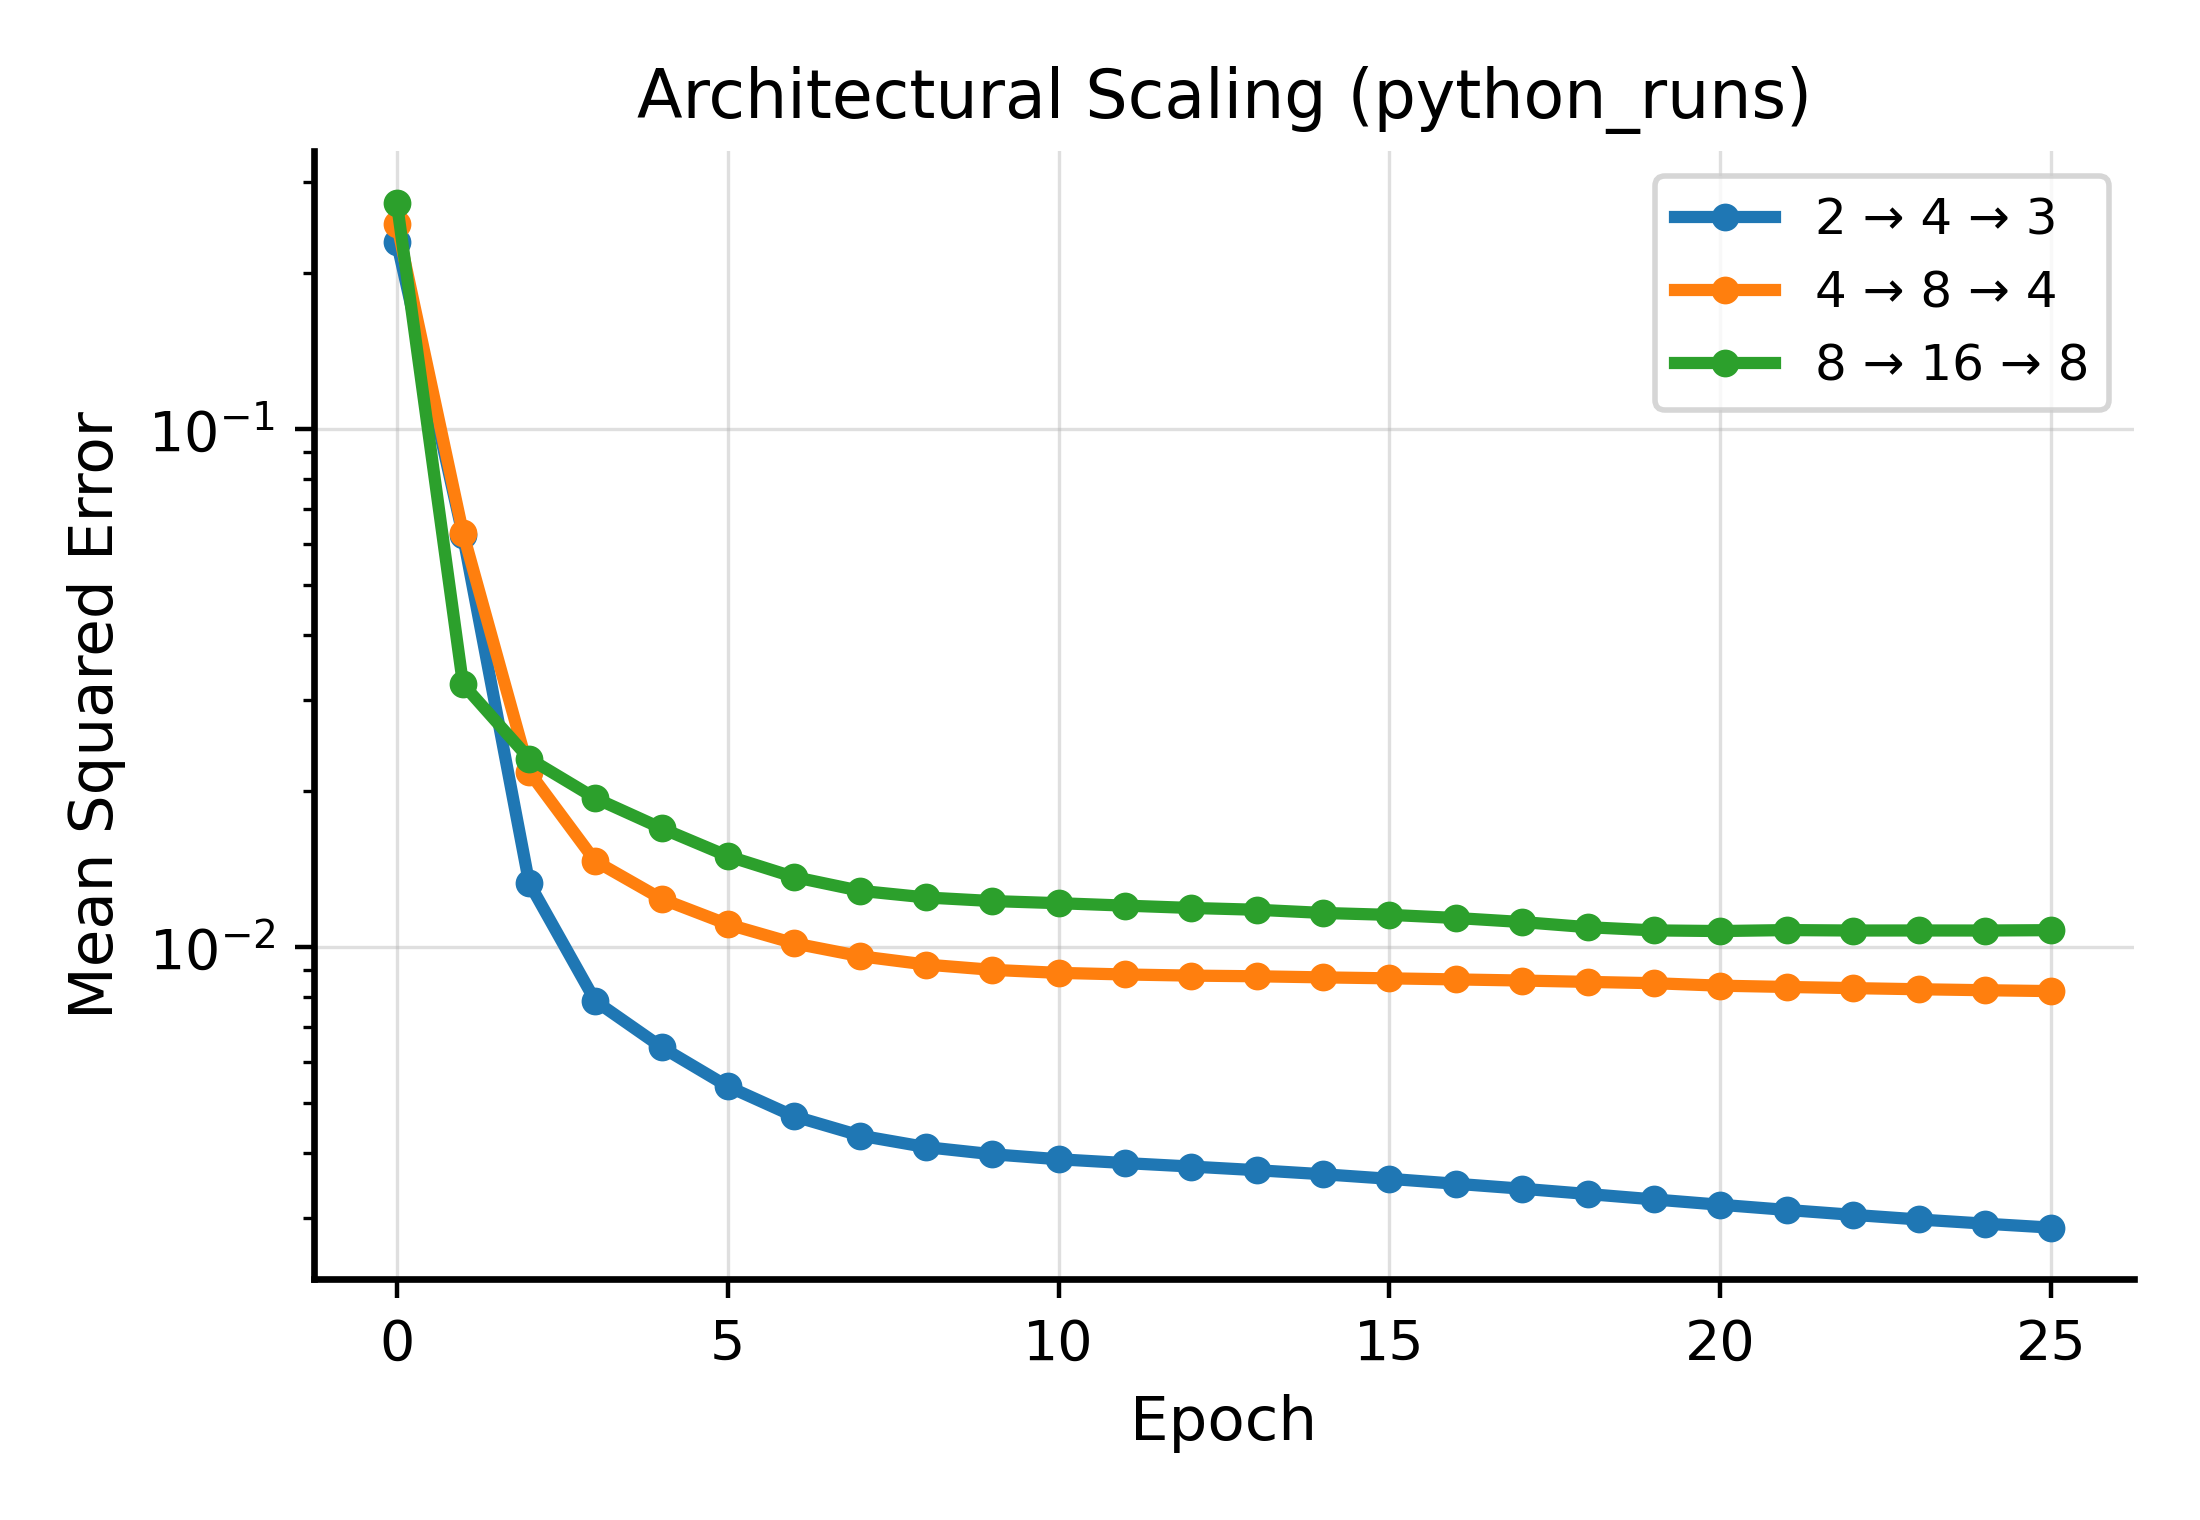
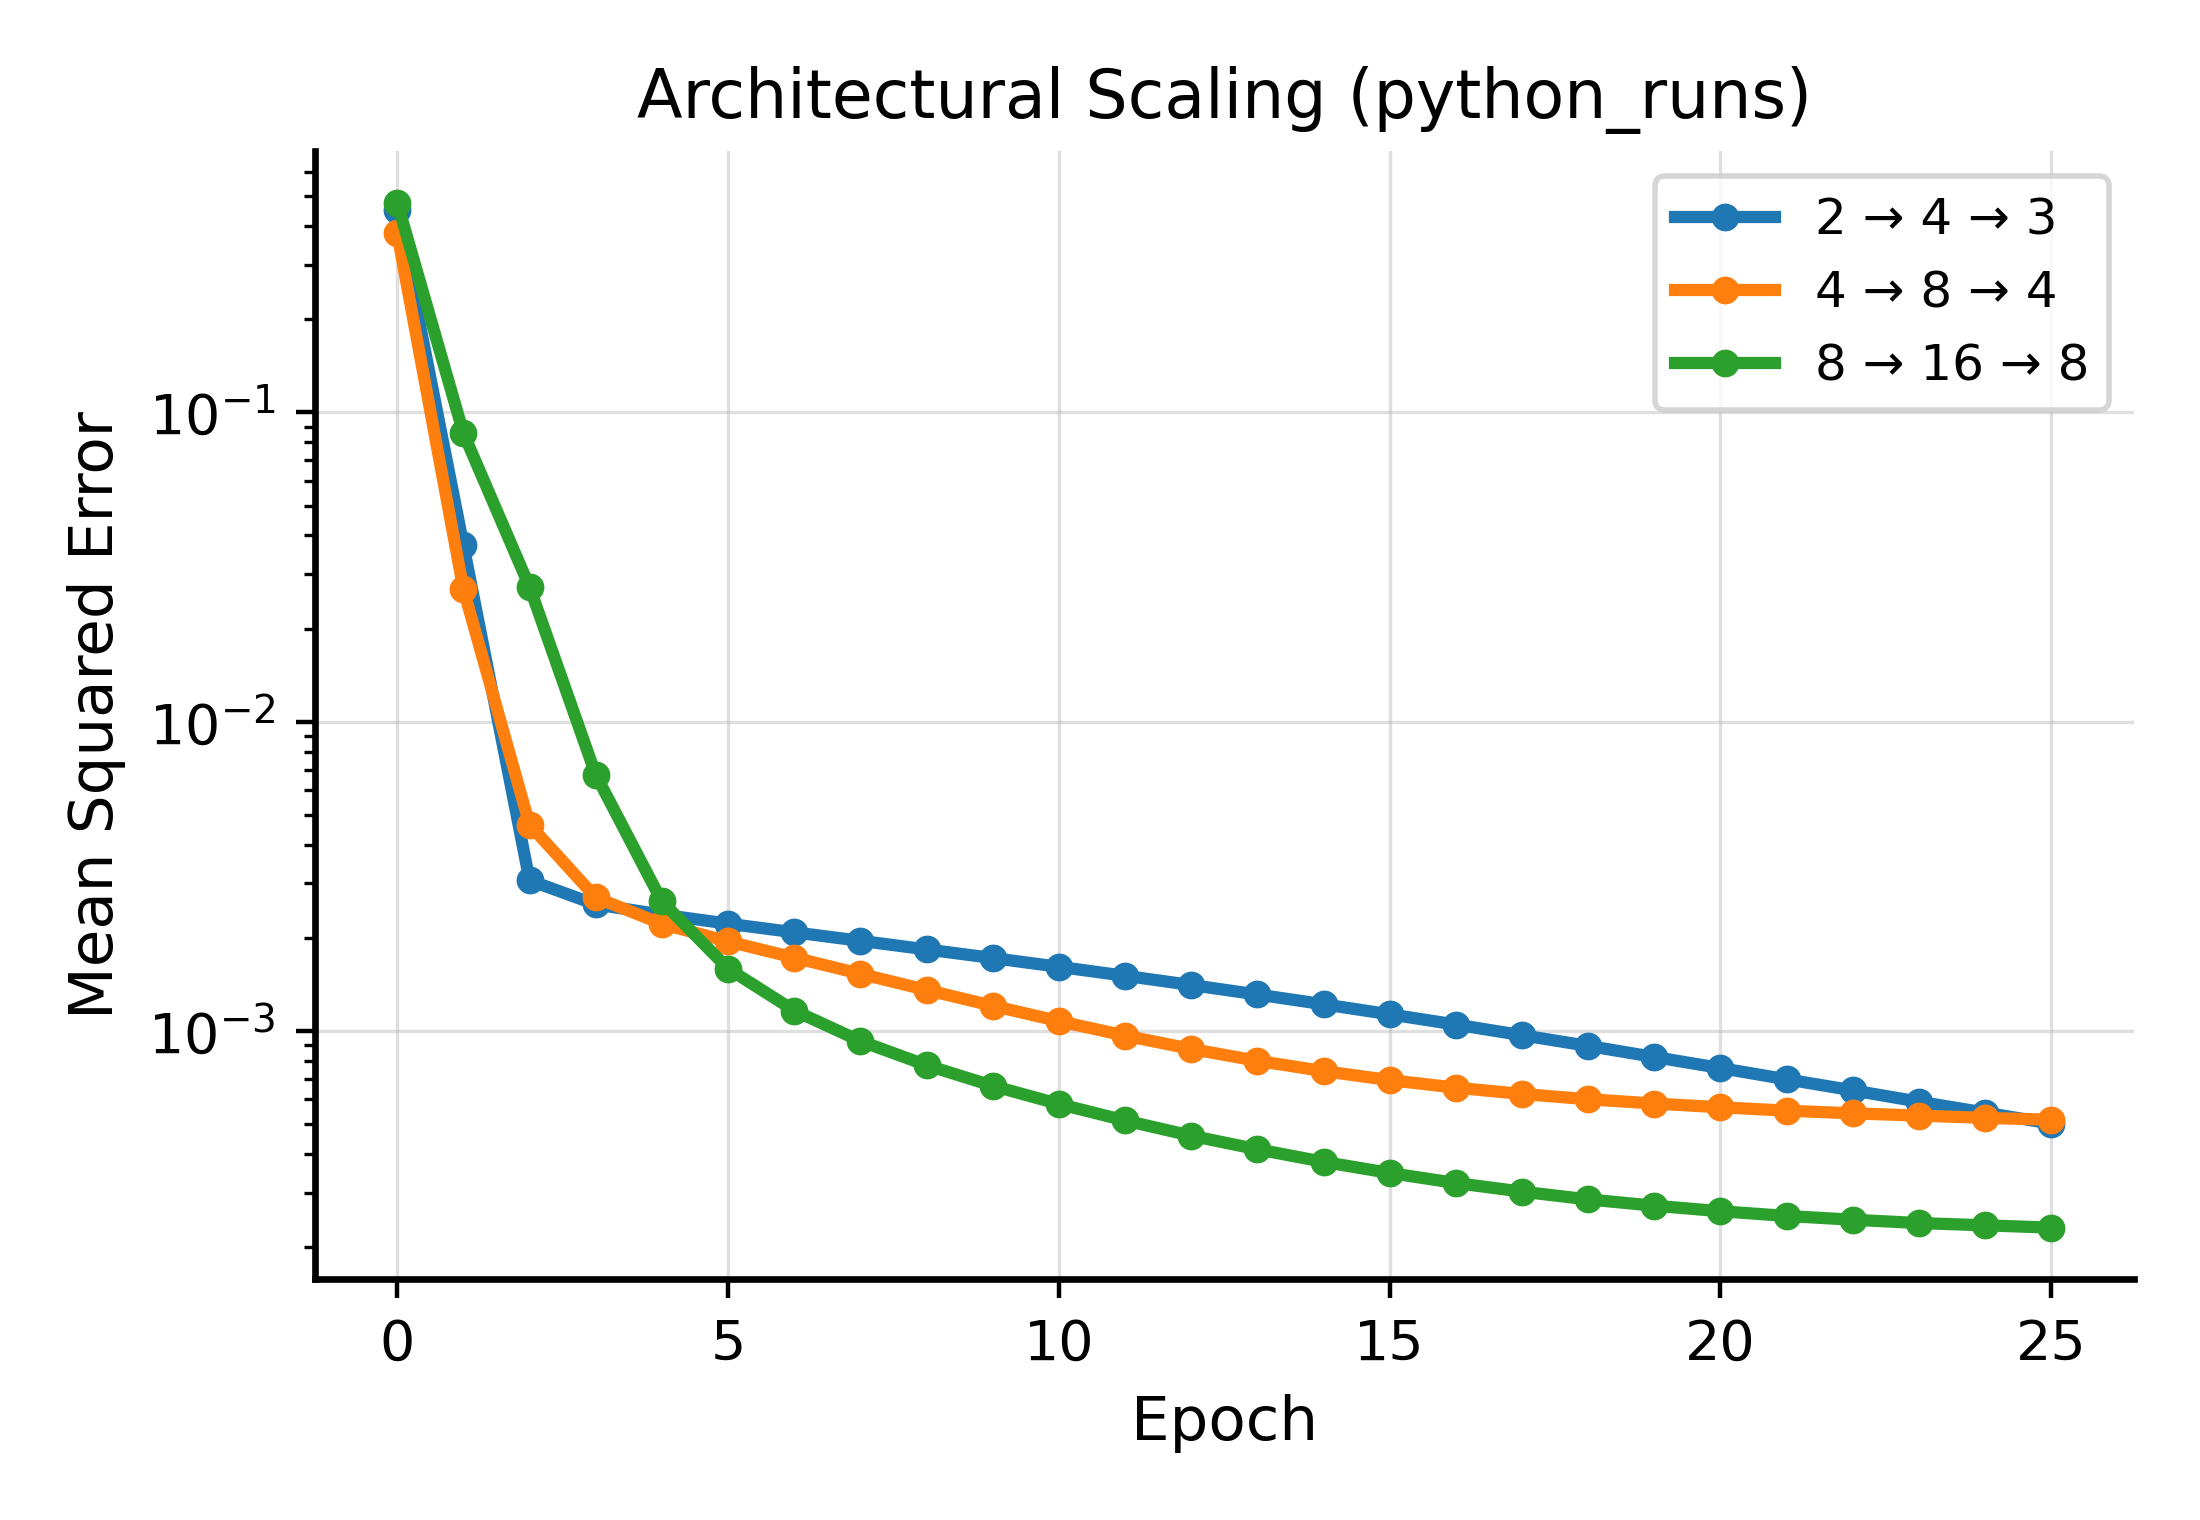
collapsed training curves

diff --git a/paper.tex b/paper.tex
@@ -516,34 +516,12 @@ Predictive coding can approximate backpropagation-like error signals under conve
 \section{Experiments}
 \label{sec:experiments}
 
-The first two experiments (Sections~\ref{sec:exp-function}--\ref{sec:exp-tanh})
-are implemented as Verilator simulations using the reference RTL implementation.
+The first experiment (Section~\ref{sec:exp-tanh})
+is implemented as a Verilator simulation using the reference RTL implementation.
 The scaling experiment (Section~\ref{sec:exp-scaling}) and the remaining
 characterisation experiments use the \texttt{python\_rtl} floating-point
 reference implementation, whose agreement with RTL float32 arithmetic is
 formally bounded in Section~\ref{sec:exp-fidelity}.
-
-\subsection{Teacher--student regression}
-\label{sec:exp-function}
-
-A three-layer network (\(2 \rightarrow 4 \rightarrow 3\)) with a ReLU hidden
-layer is trained to match a fixed teacher \(y = A_{\mathrm{gt}}\,
-\mathrm{ReLU}(B_{\mathrm{gt}} x)\). Input and output layers are clamped;
-the hidden layer is free. MSE begins at \(0.341207\), spikes briefly to
-\(0.369199\) at epoch \(1\), then descends rapidly to \(0.004784\) by
-epoch \(7\) before settling to \(0.005935\) at epoch \(25\)
-(Figure~\ref{fig:relu_training}). The two-phase profile --- sharp initial
-descent followed by a slow plateau --- is consistent with the incremental
-tick regime, in which inference does not fully converge between weight updates.
-
-\begin{figure}[H]
-\centering
-\includegraphics[width=0.75\linewidth]{figures/relu_training_curve.png}
-\caption{Training curve for the \(2 \rightarrow 4 \rightarrow 3\) ReLU
-network. After a brief transient at epoch \(1\), MSE descends rapidly then
-settles into a slow-improvement plateau.}
-\label{fig:relu_training}
-\end{figure}
 
 \subsection{Nonlinear regression with hidden tanh layer}
 \label{sec:exp-tanh}
@@ -591,7 +569,8 @@ tiled across hidden units, and $A \in \mathbb{R}^{K_0 \times K_1}$ is a
 sparse readout tiled from a three-row motif.  The student network uses
 $f = \tanh$ in both the hidden and bottom layers, matching the teacher's
 function class exactly so that zero training error is achievable in principle.
-Biases are included as a fixed presynaptic lane in the hidden layer.
+Biases are included as a fixed presynaptic lane in the hidden layer and
+initialised from $\mathcal{N}(0,\,0.5^2)$.
 
 \paragraph{Curse of dimensionality and the role of sparse structure.}
 The choice of a structurally sparse teacher is not arbitrary: it is required
@@ -634,65 +613,23 @@ $\gamma=0.04$.
 
 \paragraph{Results.}
 All three architectures converge cleanly and monotonically
-(Figure~\ref{fig:scaling}). MSE drops more than two orders of magnitude within
-the first two epochs across all sizes: from $0.189$ to $0.0035$ for
-$2\rightarrow4\rightarrow3$, from $0.218$ to $0.0028$ for
-$4\rightarrow8\rightarrow4$, and from $0.282$ to $0.00052$ for
-$8\rightarrow16\rightarrow8$.  Final MSE at epoch 25 is $3.8\times10^{-4}$,
-$6.3\times10^{-4}$, and $2.2\times10^{-4}$ respectively, with no divergence
-or oscillation observed at any scale.  Notably, the largest configuration
-achieves the lowest absolute residual, consistent with increasing network
-capacity relative to a fixed-complexity sparse teacher.
+(Figure~\ref{fig:scaling}).  The random bias initialisation raises the initial
+MSE to $0.452$ for $2\rightarrow4\rightarrow3$, $0.380$ for
+$4\rightarrow8\rightarrow4$, and $0.477$ for $8\rightarrow16\rightarrow8$.
+Despite this elevated starting point, all three networks converge to small
+residuals by epoch~25: $5.0\times10^{-4}$, $5.2\times10^{-4}$, and
+$2.3\times10^{-4}$ respectively, with no divergence or oscillation at any
+scale.
 
 \begin{figure}[H]
 \centering
-\includegraphics[width=0.75\linewidth]{figures/tanh_scaling.png}
+\includegraphics[width=0.75\linewidth]{figures/python_runs_scaling.png}
 \caption{Training curves for three architectures of increasing dimension,
 trained on a Cartesian grid with a sparse tiled tanh teacher
-$y = A \cdot \tanh(B \cdot \tanh(x))$.  All three configurations converge
-cleanly without oscillation; the largest ($8 \rightarrow 16 \rightarrow 8$)
-achieves the lowest absolute residual, consistent with overcomplete
-hidden capacity relative to the sparse teacher.}
+$y = A \cdot \tanh(B \cdot \tanh(x))$ and bias weights initialised from
+$\mathcal{N}(0,\,0.5^2)$.  All three configurations converge cleanly
+without oscillation.}
 \label{fig:scaling}
-\end{figure}
-
-\subsection{Scaling with random bias initialisation}
-\label{sec:exp-scaling-bias}
-
-The previous scaling experiment initialised all bias weights to zero.  To test
-whether the local learning dynamics remain effective when biases carry an initial
-offset, the same three architectures are retrained under the same protocol
-(\(\alpha = 0.01\), decay \(0.95\), \(\gamma = 0.04\), 25~epochs, sparse tiled
-tanh teacher) with bias weights drawn from \(\mathcal{N}(0,\,0.5^2)\) at
-initialisation (\texttt{--bias-init-scale 0.5}).
-
-\paragraph{Results.}
-Random bias initialisation raises the initial MSE across all three
-configurations: from $0.189$ to $0.452$ for $2\rightarrow4\rightarrow3$,
-from $0.218$ to $0.380$ for $4\rightarrow8\rightarrow4$, and from $0.282$ to
-$0.477$ for $8\rightarrow16\rightarrow8$.  Despite this elevated starting
-point, all three networks converge to small residuals by epoch~25: $5.0\times
-10^{-4}$, $5.2\times10^{-4}$, and $2.3\times10^{-4}$ respectively
-(Figure~\ref{fig:scaling_bias}).  The two smaller configurations follow a
-convergence profile similar to the zero-bias case, with most of the MSE
-reduction occurring in the first two epochs.  The largest configuration
-($8\rightarrow16\rightarrow8$) takes more epochs to absorb the initial bias
-offset --- dropping below $10^{-3}$ around epoch~4 rather than epoch~2 ---
-but still converges cleanly and monotonically.  Final residuals are comparable
-to those obtained with zero initialisation, confirming that the local
-predictive-coding update rule can absorb non-zero bias initialisation without
-any manual tuning of the bias learning rate.
-
-\begin{figure}[H]
-\centering
-\includegraphics[width=0.75\linewidth]{figures/tanh_scaling_bias.png}
-\caption{Training curves for the same three architectures as
-Figure~\ref{fig:scaling}, with bias weights initialised from
-$\mathcal{N}(0,\,0.5^2)$.  All three configurations converge to comparable
-final residuals despite the elevated initial MSE caused by the random bias
-offsets; the largest architecture takes a few extra epochs to absorb the
-initial offset before descending steeply.}
-\label{fig:scaling_bias}
 \end{figure}
 
 \subsection{Stability and hyperparameter characterization}
@@ -840,31 +777,23 @@ ULP floor and remains flat throughout both phases.}
 \hline
 Experiment & Architecture & Initial MSE & Final MSE \\
 \hline
-Teacher--student (ReLU) & \(2 \rightarrow 4 \rightarrow 3\) & 0.341207 & 0.005935 \\
-Hidden tanh             & \(2 \rightarrow 2 \rightarrow 1\) & 1.106512 & 0.004382 \\
+Hidden tanh    & \(2 \rightarrow 2 \rightarrow 1\) & 1.106512 & 0.004382 \\
 \hline
-Scaling: small  & \(2 \rightarrow 4 \rightarrow 3\)  & 0.1886 & 0.000380 \\
-Scaling: medium & \(4 \rightarrow 8 \rightarrow 4\)  & 0.2179 & 0.000626 \\
-Scaling: large  & \(8 \rightarrow 16 \rightarrow 8\) & 0.2819 & 0.000224 \\
-\hline
-Scaling (bias init): small  & \(2 \rightarrow 4 \rightarrow 3\)  & 0.4519 & 0.000501 \\
-Scaling (bias init): medium & \(4 \rightarrow 8 \rightarrow 4\)  & 0.3804 & 0.000516 \\
-Scaling (bias init): large  & \(8 \rightarrow 16 \rightarrow 8\) & 0.4771 & 0.000231 \\
+Scaling: small  & \(2 \rightarrow 4 \rightarrow 3\)  & 0.4519 & 0.000501 \\
+Scaling: medium & \(4 \rightarrow 8 \rightarrow 4\)  & 0.3804 & 0.000516 \\
+Scaling: large  & \(8 \rightarrow 16 \rightarrow 8\) & 0.4771 & 0.000231 \\
 \hline
 \end{tabular}
-\caption{Final MSE values reported at epoch~25. The top two rows are the
-reference regression experiments (RTL simulation); the middle three are the
+\caption{Final MSE values reported at epoch~25. The top row is the
+reference regression experiment (RTL simulation); the bottom three are the
 architectural scaling sweep (Python reference, sparse tiled tanh teacher,
-zero bias init); the bottom three repeat the scaling sweep with bias weights
-initialised from $\mathcal{N}(0,\,0.5^2)$.  Final residuals are comparable
-across both bias-init conditions, confirming robustness of the local update
-rule to non-zero bias offsets.}
+bias weights initialised from $\mathcal{N}(0,\,0.5^2)$).}
 \label{tab:results-summary}
 \end{table}
 
-Across all five runs, end-to-end supervised learning proceeds using only local
+Across all four runs, end-to-end supervised learning proceeds using only local
 state variables, local prediction errors, and adjacent-layer communication
-under a fixed FSM schedule. Nonzero residual floors in the RTL experiments
+under a fixed FSM schedule. Nonzero residual floors in the RTL experiment
 motivate further study of tick budget and step-size tuning.
 
 \subsection{Evaluation protocol}
